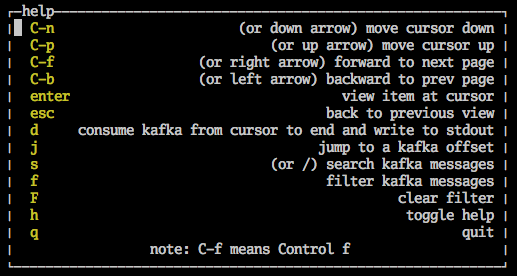
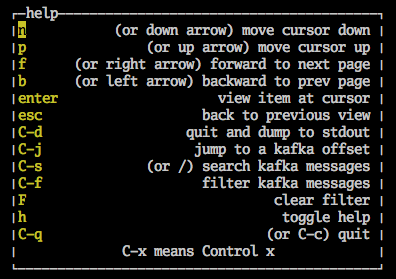
changed keybindings
navigation needs no Ctrl
dump, filter, search and jump need Ctrl

Changed region(s): [[0.0, 0.0, 1.0, 0.9275], [0.0, 0.9565, 1.0, 0.9855]]

diff --git a/internal/views/keybindings.go b/internal/views/keybindings.go
@@ -26,23 +26,23 @@ var (
 
 func getKeys() []key {
 	return []key{
-		{name: bod.name, keys: []interface{}{ui.KeyCtrlN, ui.KeyArrowDown}, f: next, help: keyHelp{key: "C-n", body: "(or down arrow) move cursor down"}},
-		{name: bod.name, keys: []interface{}{ui.KeyCtrlP, ui.KeyArrowUp}, f: prev, help: keyHelp{key: "C-p", body: "(or up arrow) move cursor up"}},
-		{name: bod.name, keys: []interface{}{ui.KeyCtrlF, ui.KeyArrowRight}, f: forward, help: keyHelp{key: "C-f", body: "(or right arrow) forward to next page"}},
-		{name: bod.name, keys: []interface{}{ui.KeyCtrlB, ui.KeyArrowLeft}, f: back, help: keyHelp{key: "C-b", body: "(or left arrow) backward to prev page"}},
+		{name: bod.name, keys: []interface{}{'n', ui.KeyArrowDown}, f: next, help: keyHelp{key: "n", body: "(or down arrow) move cursor down"}},
+		{name: bod.name, keys: []interface{}{'p', ui.KeyArrowUp}, f: prev, help: keyHelp{key: "p", body: "(or up arrow) move cursor up"}},
+		{name: bod.name, keys: []interface{}{'f', ui.KeyArrowRight}, f: forward, help: keyHelp{key: "f", body: "(or right arrow) forward to next page"}},
+		{name: bod.name, keys: []interface{}{'b', ui.KeyArrowLeft}, f: back, help: keyHelp{key: "b", body: "(or left arrow) backward to prev page"}},
 		{name: bod.name, keys: []interface{}{ui.KeyEnter}, f: sel, help: keyHelp{key: "enter", body: "view item at cursor"}},
 		{name: bod.name, keys: []interface{}{ui.KeyEsc}, f: popPage, help: keyHelp{key: "esc", body: "back to previous view"}},
-		{name: bod.name, keys: []interface{}{'d'}, f: dump, help: keyHelp{key: "d", body: "dump to stdout"}},
-		{name: bod.name, keys: []interface{}{'j'}, f: jump, help: keyHelp{key: "j", body: "jump to a kafka offset"}},
-		{name: bod.name, keys: []interface{}{'s', '/'}, f: search, help: keyHelp{key: "s", body: "(or /) search kafka messages"}},
-		{name: bod.name, keys: []interface{}{'f'}, f: filter, help: keyHelp{key: "f", body: "filter kafka messages"}},
+		{name: bod.name, keys: []interface{}{ui.KeyCtrlD}, f: dump, help: keyHelp{key: "C-d", body: "quit and dump to stdout"}},
+		{name: bod.name, keys: []interface{}{ui.KeyCtrlJ}, f: jump, help: keyHelp{key: "C-j", body: "jump to a kafka offset"}},
+		{name: bod.name, keys: []interface{}{ui.KeyCtrlS, '/'}, f: search, help: keyHelp{key: "C-s", body: "(or /) search kafka messages"}},
+		{name: bod.name, keys: []interface{}{ui.KeyCtrlF}, f: filter, help: keyHelp{key: "C-f", body: "filter kafka messages"}},
 		{name: bod.name, keys: []interface{}{'F'}, f: clearFilter, help: keyHelp{key: "F", body: "clear filter"}},
 		{name: foot.name, keys: []interface{}{ui.KeyEnter}, f: foot.exit},
 		{name: foot.name, keys: []interface{}{ui.KeyEsc}, f: foot.bail},
 		{name: bod.name, keys: []interface{}{'h'}, f: hlp.show, help: keyHelp{key: "h", body: "toggle help"}},
 		{name: hlp.name, keys: []interface{}{'h'}, f: hlp.hide},
-		{name: bod.name, keys: []interface{}{'q', ui.KeyCtrlC}, f: quit, help: keyHelp{key: "q", body: "(or C-c) quit"}},
-		{name: hlp.name, keys: []interface{}{'q', ui.KeyCtrlC}, f: quit},
+		{name: bod.name, keys: []interface{}{ui.KeyCtrlQ, ui.KeyCtrlC}, f: quit, help: keyHelp{key: "C-q", body: "(or C-c) quit"}},
+		{name: hlp.name, keys: []interface{}{ui.KeyCtrlQ, ui.KeyCtrlC}, f: quit},
 	}
 }
 
